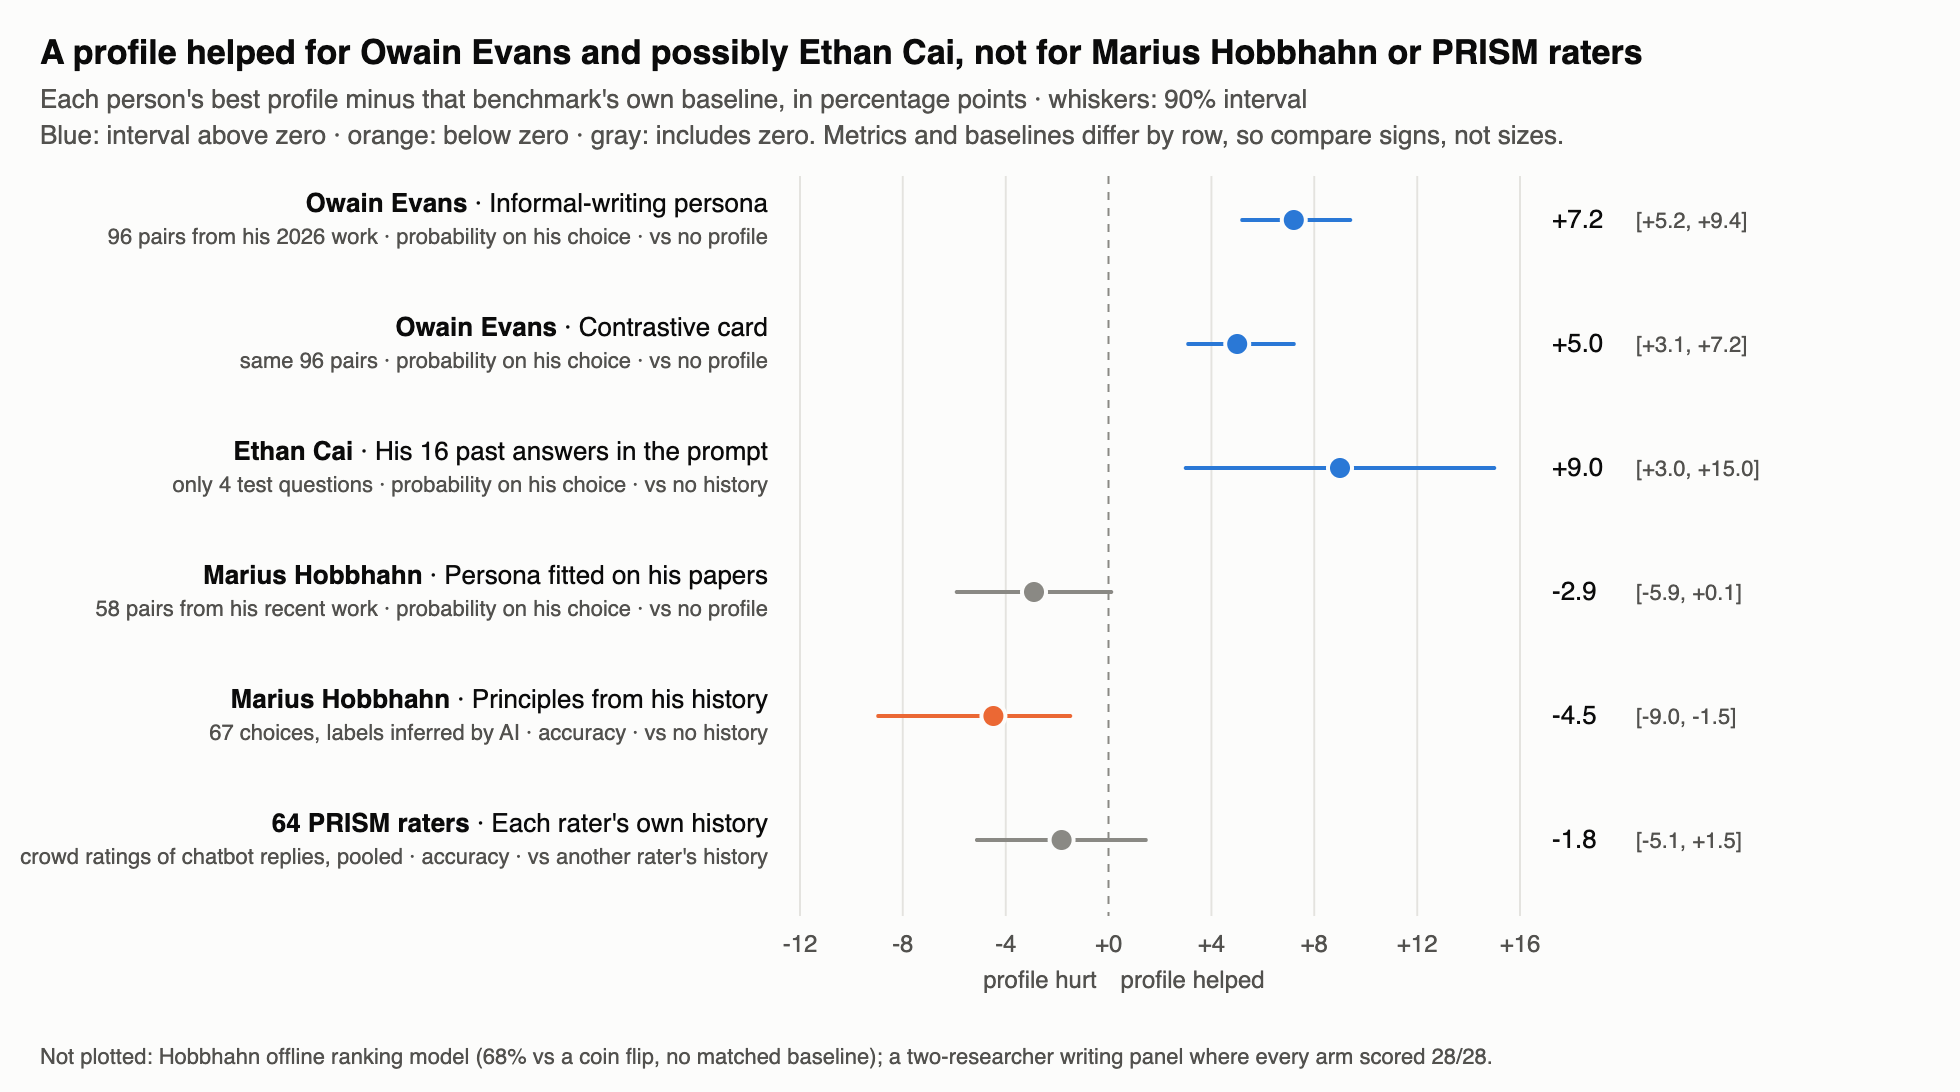
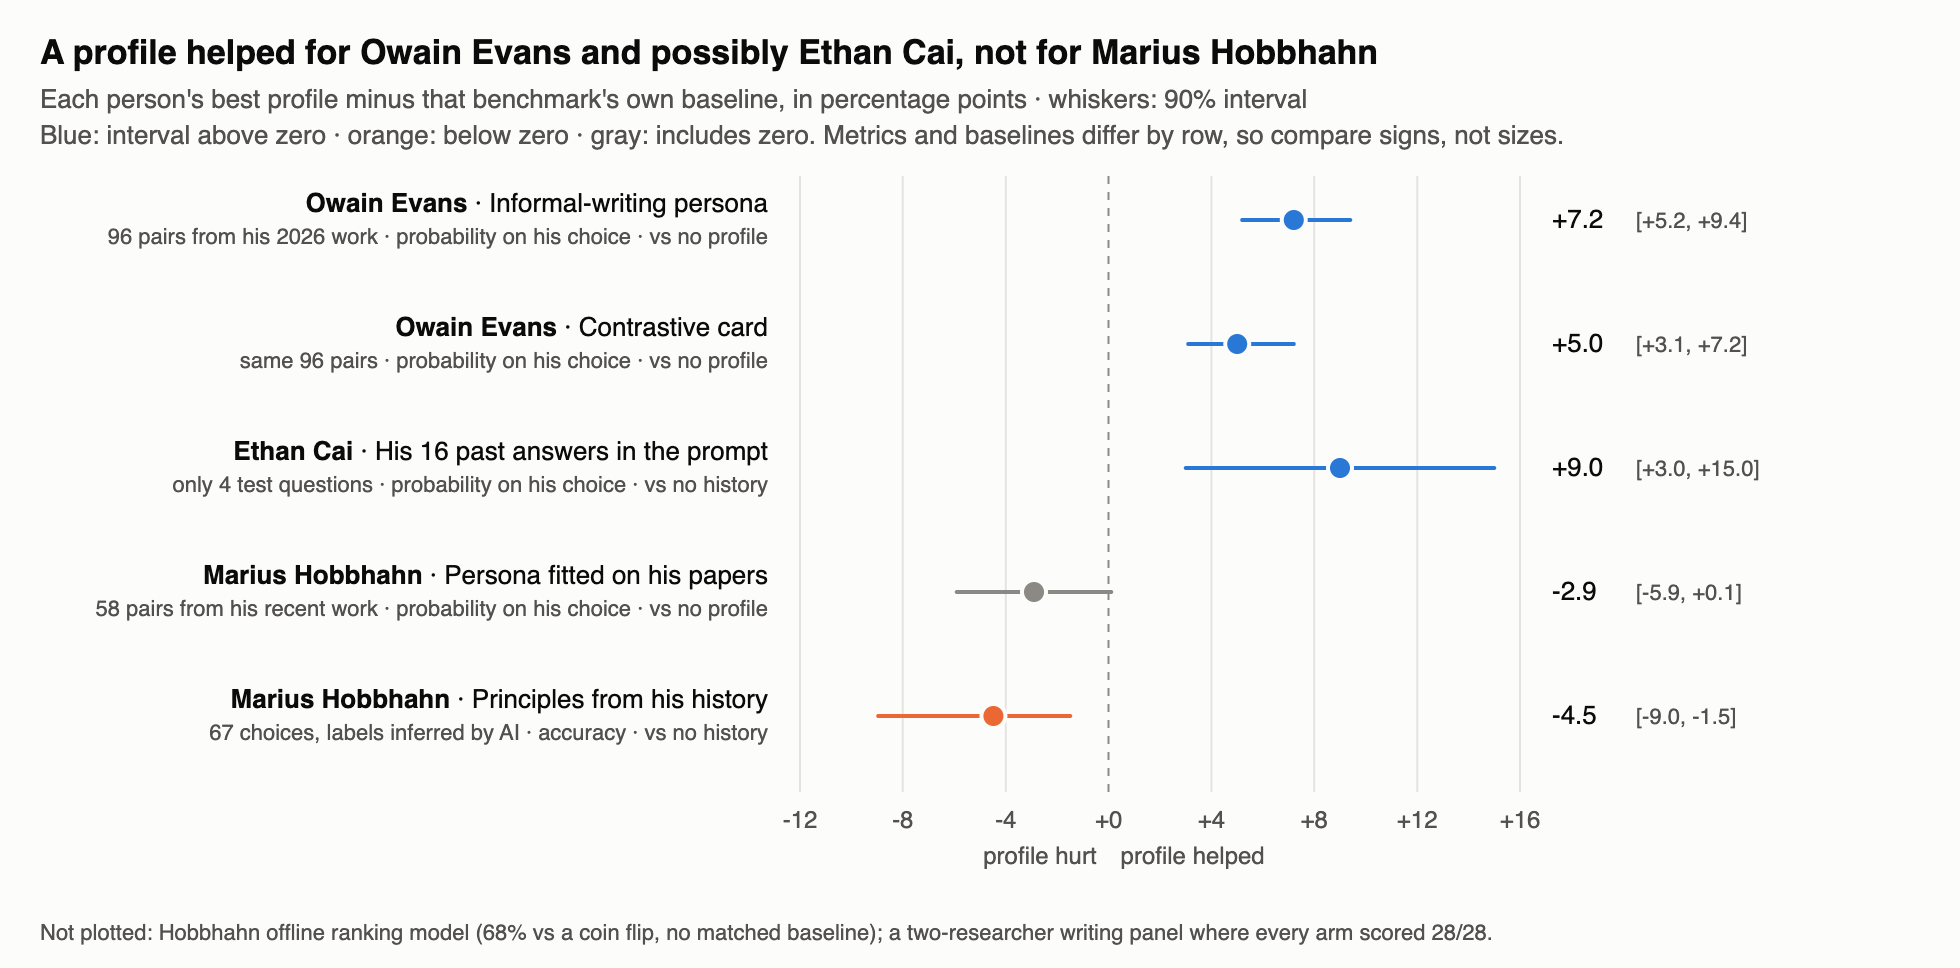
best_heldout: drop the PRISM raters from the per-person chart
User asked to ignore PRISM completely.

diff --git a/experiments/taste_petri/best_heldout/people.py b/experiments/taste_petri/best_heldout/people.py
@@ -28,12 +28,6 @@ def gio_dev_row():
     return best, 100 * sum(d) / len(d), 100 * bs[200], 100 * bs[3800], len(ids)
 
 
-def prism_90(d, lo95, hi95):
-    """The source reports only a 95% interval; shrink it to 90% assuming normality (z 1.645 / 1.96)."""
-    k = 1.645 / 1.96
-    return d, d - k * (d - lo95), d + k * (hi95 - d)
-
-
 best, g, glo, ghi, gn = gio_dev_row()
 assert best == "m3", best  # the label below names ICAI principles
 # (person, profile, detail line, diff, lo, hi, source)
@@ -53,9 +47,6 @@ ROWS = [
     ("Marius Hobbhahn", "Principles from his history",
      f"{gn} choices, labels inferred by AI · accuracy · vs no history",
      g, glo, ghi, "origin/codex/gio-full-history results/fidelity/hobbhahn-full-paper-05"),
-    ("64 PRISM raters", "Each rater's own history",
-     "crowd ratings of chatbot replies, pooled · accuracy · vs another rater's history",
-     *prism_90(-1.83, -5.75, 2.08), "origin/codex/gio-morning-04 docs/overnight/gio-profile-20261115/control/MORNING_SUMMARY.md"),
 ]
 json.dump([dict(zip(["person", "profile", "detail", "diff_pts", "lo", "hi", "source"], r)) for r in ROWS],
           open(HERE / "people.json", "w"), indent=1)
@@ -78,7 +69,7 @@ svg = [f'<svg xmlns="http://www.w3.org/2000/svg" viewBox="0 0 {W} {H}" width="{W
        'font-family="-apple-system, Segoe UI, Helvetica, Arial, sans-serif">', STYLE,
        f'<rect class="bg" width="{W}" height="{H}"/>',
        '<text class="t1" x="20" y="32" font-size="17" font-weight="600">'
-       'A profile helped for Owain Evans and possibly Ethan Cai, not for Marius Hobbhahn or PRISM raters</text>',
+       'A profile helped for Owain Evans and possibly Ethan Cai, not for Marius Hobbhahn</text>',
        '<text class="t2" x="20" y="54" font-size="13">Each person\'s best profile minus that benchmark\'s own baseline, '
        'in percentage points · whiskers: 90% interval</text>',
        '<text class="t2" x="20" y="72" font-size="13">Blue: interval above zero · orange: below zero · '

diff --git a/experiments/taste_petri/best_heldout/README.md b/experiments/taste_petri/best_heldout/README.md
@@ -7,10 +7,7 @@
 ![Best profile minus baseline, per person](people.svg)
 
 `people.py` writes `people.svg` and `people.json` (each row's source). Rows differ in metric, baseline, model and
-label source, so read signs, not sizes. Ethan's row rests on 4 test questions. The PRISM raters are 64 development users from PRISM (Kirk et al. 2024), a public dataset of
-crowd workers rating chatbot replies, via the PersonalRewardBench derivative; their choices are about chat
-responses, not research. Their source reports a 95% interval; the chart shrinks it to 90% assuming normality, so every
-whisker is 90%. Hobbhahn's development labels were
+label source, so read signs, not sizes. Ethan's row rests on 4 test questions. Hobbhahn's development labels were
 inferred by AI, not given by him. Hobbhahn's offline ranking model (68% on held-out documents) has no matched
 no-profile baseline, and a two-researcher writing panel was at ceiling (every arm 28/28), so neither is plotted.
 
